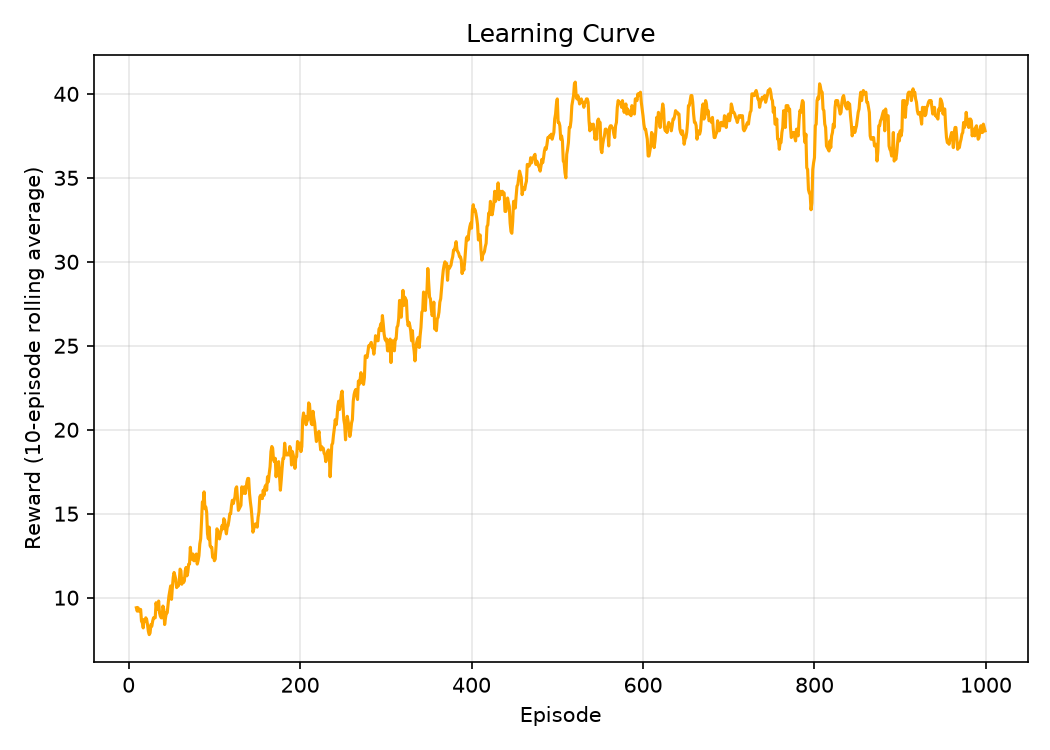
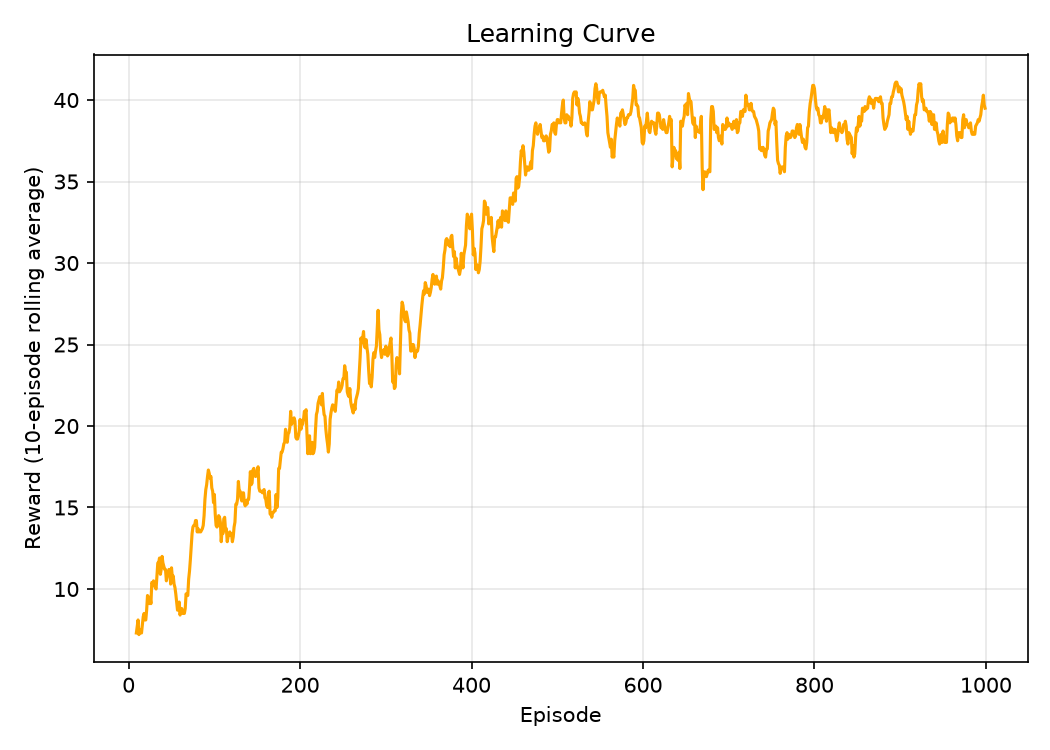
changed the observasion space in wrapper

diff --git a/environment/wrapper.py b/environment/wrapper.py
@@ -13,11 +13,11 @@ class SingleAgentWrapper(gym.Env):
         self.env = env
         self.num_agents = env.num_agents
         
-        # Each agent observes 5 features
+        # Each agent observes 1 feature: food level at its own cell
         self.observation_space = spaces.Box(
             low=0,
             high=env.max_food + 1,
-            shape=(5,),
+            shape=(1,),
             dtype=np.float32
         )
         